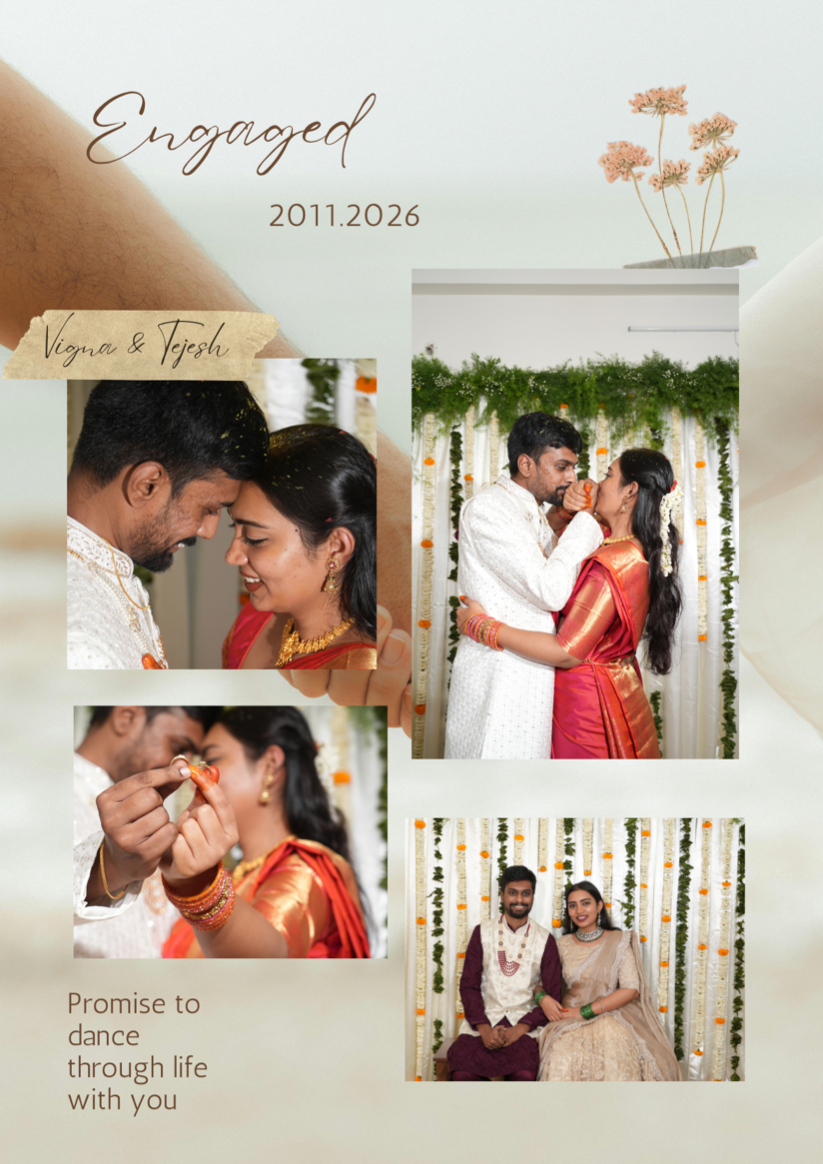
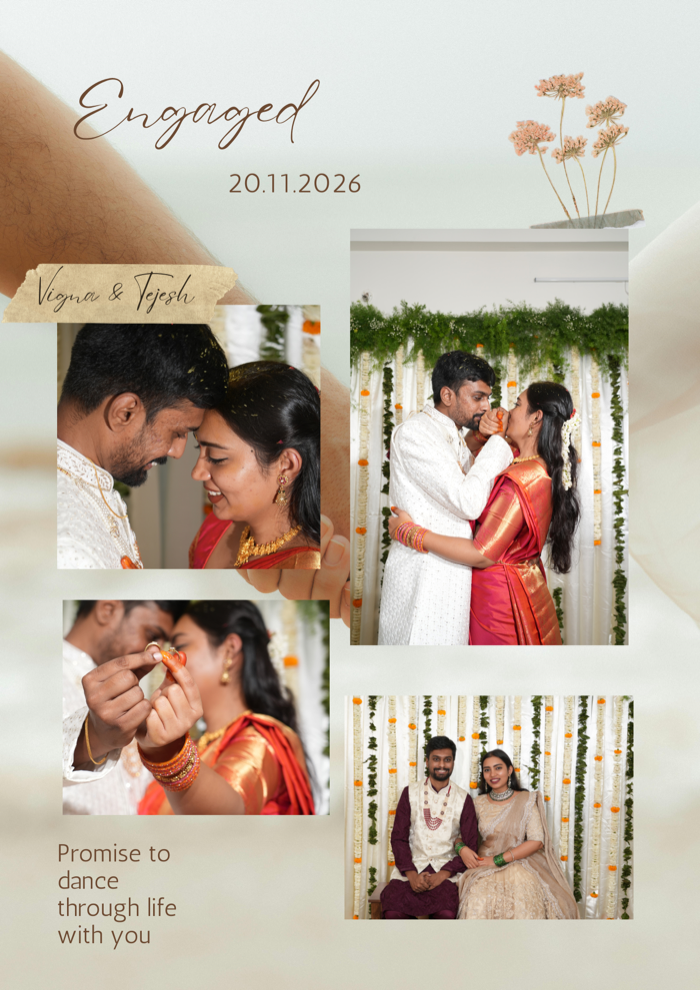
feat :: fixing image txt load sync

diff --git a/final_page.html b/final_page.html
@@ -74,7 +74,7 @@
       }
 
       .late {
-        object-fit: cover;
+        object-fit: contain;
         object-position: center center;
       }
     }
@@ -84,6 +84,12 @@
       .invitation {
         width: 100%;
       }
+
+      .late {
+        object-fit: contain;
+        object-position: center center;
+      }
+
     }
 
     /* Desktop and tablet */
@@ -107,7 +113,7 @@
   <main class="invitation">
 
     <img
-      src="Oops_You_are_late_Image.png"
+      src="resized.jpg"
       alt="Oops! You are late! We've already started exchanging rings!"
       class="late"
     >
